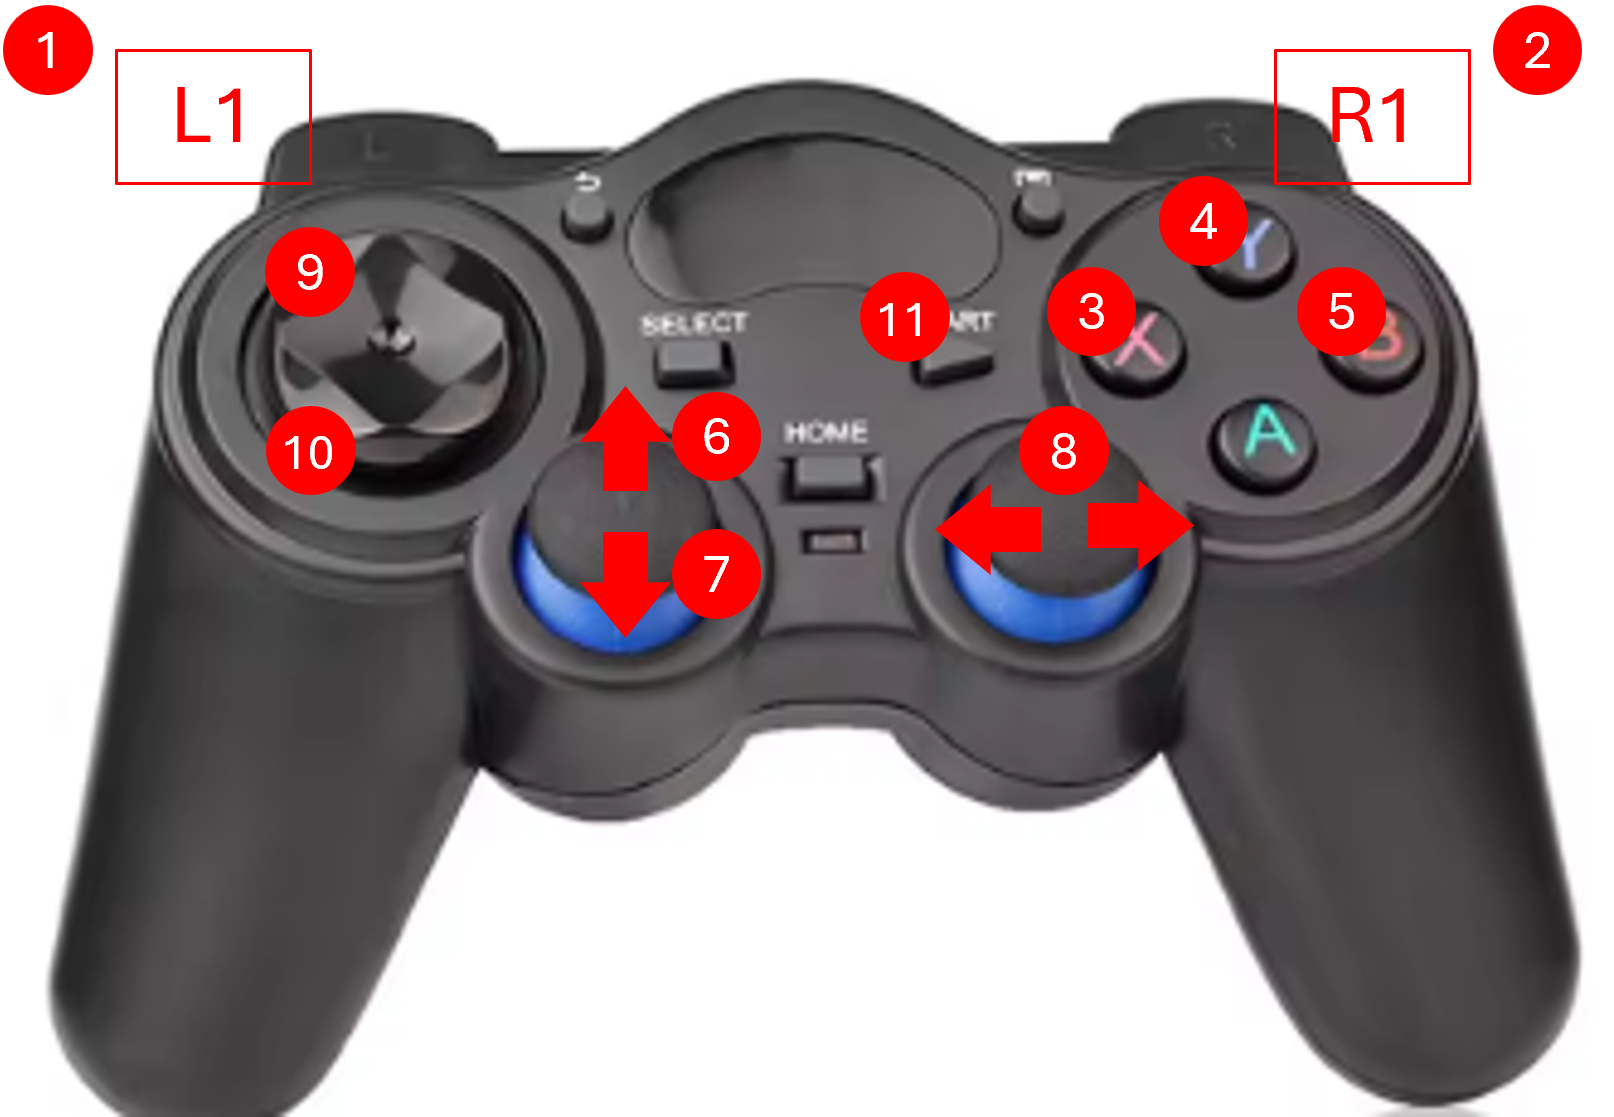
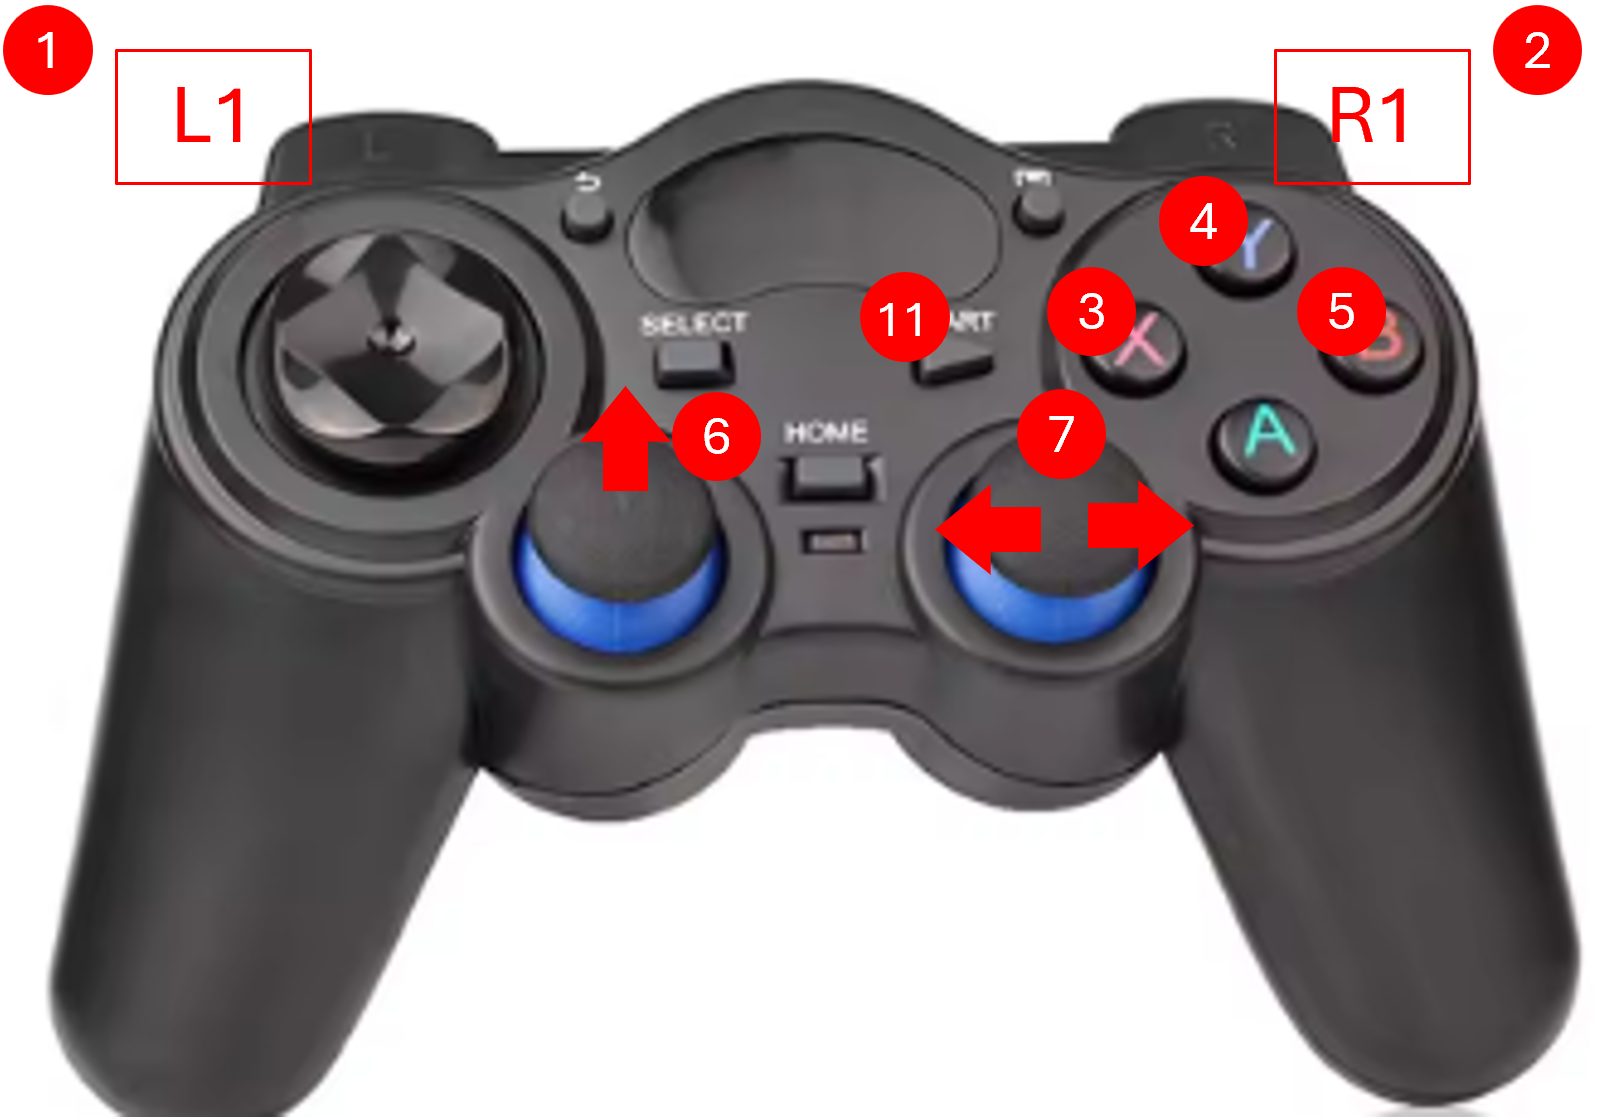
On branch docs/revision  Your branch is up to date with 'origin/docs/revision'.  Changes to be committed: 	modified:   docs/[4] Monitor Package.md 	modified:   docs/[5] Battery Package.md 	modified:   docs/[6] Camera Package.md 	modified:   docs/[7] Joystick & Control Package.md 	modified:   docs/[8

diff --git a/docs/[7] Joystick & Control Package.md b/docs/[7] Joystick & Control Package.md
@@ -21,13 +21,8 @@
   - 수동 주행 모드에서 동작가능한 조이스틱 기능은 아래와 같습니다.
     - 가감속 비율(accel_ratio) 조정 - (1) (2)
     - Steering Calibration : steering trim 조절 & 저장 - (4) (5)
-    - 전진 기어 모드 - (9)
-    - 후진 기어 모드 - (10)
-    - 종방향 제어 스틱
-      - 전진 기어 모드 일때 - (6)방향으로 전진을 할 수 있습니다.
-      - 후진 기어 모드 일때 - (7)방향으로 후진을 할 수 있습니다. (**후진시, 스틱을 살살 동작하세요**)
-    - 횡방향 제어 스틱 - (8)
-  
+    - 종방향 제어 스틱 - (6)
+    - 횡방향 제어 스틱 - (7)
   
   - 자율주행 모드에서 동작가능한 조이스틱 기능은 아래와 같습니다.
     - E-STOP 래치 - (3)
@@ -35,9 +30,13 @@
   - bagfile record start/stop 토글 - (11)
     - ROS2 bagfile을 취득한 일자-시간 순으로 기록합니다. 
 
-<p align="center">  
-  ![Figure 1. Joystick Mapping](topst-development url 첨부예정)
+<p align="center">
+  <img src="https://raw.githubusercontent.com/topst-development/D-Racer-Kit/refs/heads/docs/revision/docs/asset/7/figure1-joystick-mapping.png" alt="Joystick Mapping">
+  <br>
+  <b>Figure 1. Joystick Mapping</b>
 </p>
+
+<br>
 
 ### 2-2. Control Node 역할
 
@@ -47,7 +46,7 @@
 - Steering Calibration 모드 
   - Y button : Left 방향으로 정렬
   - B button : Right 방향으로 정렬
-
+  - Y/B 버튼으로 STEER_TRIM 값이 자동으로 vehicle_config.yaml 파일에 저장이 됩니다. 
 <br>
 
 ## 3) 기본 실행 방법
@@ -99,10 +98,14 @@ ros2 run control control_node --ros-args -p use_joystick_control:=true
 ```bash
 ros2 run monitor monitor_node
 ```
-1. 자율주행 모드에서 최종적으로 /control 토픽이 publish 되며, 해당 토픽 데이터는 대쉬보드 내 "실시간 제어값" 패널에서ㅇ 출력됩니다. (Figure1)  
+1. 자율주행 모드에서 최종적으로 /control 토픽이 publish 되며, 해당 토픽 데이터는 대쉬보드 내 "실시간 제어값" 패널에서ㅇ 출력됩니다. (Figure2)  
 * 수동주행 모드에서 대쉬보드에 제어값이 표출되지 않습니다. joystick 패키지가 실행되는 터미널을 통해 throttle, steering 값을 확인할 수 있습니다.
-<p align="center">  
-  ![Figure 1. Control Statua](topst-development url 첨부예정)
+
+
+<p align="center">
+  <img src="https://raw.githubusercontent.com/topst-development/D-Racer-Kit/refs/heads/docs/revision/docs/asset/7/xxx.png" alt="Dashboard Control Status">
+  <br>
+  <b>Figure 2. Dashboard Control Status</b>
 </p>
 
 <br>

diff --git a/docs/[6] Camera Package.md b/docs/[6] Camera Package.md
@@ -104,8 +104,11 @@ ROI_LEFT: 0
 ros2 run monitor monitor_node
 ```
 대쉬보드에 카메라 프레임을 출력한다. (Figure1) 
-<p align="center">  
-  ![Figure 1. Camera Status](topst-development url 첨부예정)
+
+<p align="center">
+  <img src="https://raw.githubusercontent.com/topst-development/D-Racer-Kit/refs/heads/docs/revision/docs/asset/6/figure1-camera-status.png" alt="Camera Streaming">
+  <br>
+  <b>Figure 1. Dashboard-Camera Streaming</b>
 </p>
 
 <br>
@@ -171,7 +174,9 @@ ros2 topic echo /camera/image/compressed --once
 ### 8-1. 카메라 오픈 실패
 
 1. 디바이스 경로 확인 (`/dev/video0`, `/dev/video1` 등)
-2. `USB_CAM`/`MIPI_CAM` 설정 확인
+    - `MIPI_CAM` : /dev/video0
+    - `USB_CAM` : /dev/video1
+2. 카메라 USB 연결 상태 확인 후 재부팅 
 3. 해상도(`IMAGE_WIDTH`, `IMAGE_HEIGHT`)를 낮춰 재시도
 4. `flip_method` 값 변경 시도 - 때에 따라 화면을 전환해야하는 경우 
 ### 8-2. 토픽은 있는데 화면이 안 뜰 때

diff --git a/docs/[4] Monitor Package.md b/docs/[4] Monitor Package.md
@@ -57,10 +57,14 @@ ros2 run monitor monitor_node --ros-args \
 혹은, config/vehicle_config.yaml 파일에서 수정 후 적용해도 동일합니다.  
 브라우저 접속 주소는 로그의 `web=http://...` 값을 확인하면 됩니다.(사용자의 IP)  
 해당 주소에 접속하면  figure 1 과 같이 대쉬보드가 웹화면에 동작합니다.
-<p align="center">  
-  ![Figure 1. Dashboard Default UI](topst-development url 첨부예정)
+
+<p align="center">
+  <img src="https://raw.githubusercontent.com/topst-development/D-Racer-Kit/refs/heads/docs/revision/docs/asset/4/figure1-dashboard-default.png" alt="Dashboard Default">
+  <br>
+  <b>Figure 1. Dashboard Default</b>
 </p>
-<br>  
+
+<br>
 
 ## 4) 주요 ROS 파라미터 설명
 아래 파라미터는 `monitor_node`에서 직접 사용됩니다.

diff --git a/docs/[8] OpenCV Package.md b/docs/[8] OpenCV Package.md
@@ -115,6 +115,15 @@ ros2 topic echo /opencv/image/grayscale --once
 
 <br>
 
+<p align="center">
+  <img src="https://raw.githubusercontent.com/topst-development/D-Racer-Kit/refs/heads/docs/revision/docs/asset/8/figure1-dashboard-opencv-debug-mode.png" alt="Dashboard OPenCV Debug Mode">
+  <br>
+  <b>Figure 1. Dashboard OPenCV Debug Mode</b>
+</p>
+
+<br>
+
+
 ## 8) 자주 발생하는 이슈
 ### 8-1. OpenCV 토픽이 생성되지 않을 때
 

diff --git a/docs/[5] Battery Package.md b/docs/[5] Battery Package.md
@@ -61,8 +61,11 @@ ros2 run battery battery_node --ros-args \
 ros2 run monitor monitor_node
 ```
 대쉬보드에 배터리 상태량을 출력한다. (Figure1) 
-<p align="center">  
-  ![Figure 1. Battery Status](topst-development url 첨부예정)
+
+<p align="center">
+  <img src="https://raw.githubusercontent.com/topst-development/D-Racer-Kit/refs/heads/docs/revision/docs/asset/5/figure1-battery-status.png" alt="Battery Status">
+  <br>
+  <b>Figure 1. Dashboard-Battery Status</b>
 </p>
 
 <br>